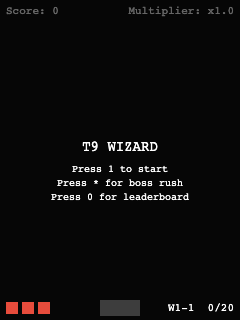
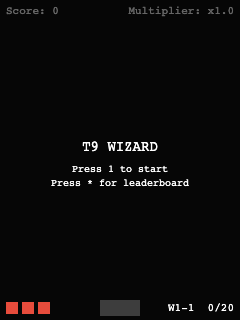
UI enhancements

Changed region(s): [[0.2042, 0.5625, 0.7875, 0.625]]

diff --git a/frontend-v3/js/main.js b/frontend-v3/js/main.js
@@ -16,14 +16,17 @@
       } else if (e.key >= '2' && e.key <= '9') {
         e.preventDefault();
         Game.handleDigitKey(e.key);
-      } else if (e.key === '0') {
-        e.preventDefault();
-        Game.handleLeaderboardKey();
       } else if (e.key === '*') {
         e.preventDefault();
-        Game.handleBossRushKey();
-      } else if (e.key === '#') {
-        e.preventDefault();
+        // Boss rush's old key -- commented out, not deleted, alongside its
+        // menu text in render.js (see renderMenuOverlay).
+        // Game.handleBossRushKey();
+        // '*' now covers both leaderboard (from the menu) and quit (from
+        // paused) -- safe to call both unconditionally since each already
+        // guards on its own required mode, and those modes are mutually
+        // exclusive, the same way '1' already means different things
+        // depending on state.
+        Game.handleLeaderboardKey();
         Game.handleQuitKey();
       }
     });

diff --git a/frontend-v3/js/render.js b/frontend-v3/js/render.js
@@ -263,8 +263,12 @@ var Render = (function () {
     ctx.fillText('T9 WIZARD', CANVAS_WIDTH / 2, CANVAS_HEIGHT / 2 - 20);
     ctx.font = '10px monospace';
     ctx.fillText('Press 1 to start', CANVAS_WIDTH / 2, CANVAS_HEIGHT / 2 + 4);
-    ctx.fillText('Press * for boss rush', CANVAS_WIDTH / 2, CANVAS_HEIGHT / 2 + 18);
-    ctx.fillText('Press 0 for leaderboard', CANVAS_WIDTH / 2, CANVAS_HEIGHT / 2 + 32);
+    // Boss rush was a boss-balance testing tool -- balance is settled now,
+    // so it's off the menu. Left commented (not deleted) since main.js's
+    // '*' case for it is disabled the same way -- trivial to bring both
+    // back if it's needed again later.
+    // ctx.fillText('Press * for boss rush', CANVAS_WIDTH / 2, CANVAS_HEIGHT / 2 + 18);
+    ctx.fillText('Press * for leaderboard', CANVAS_WIDTH / 2, CANVAS_HEIGHT / 2 + 18);
     ctx.textAlign = 'left';
   }
 
@@ -388,7 +392,7 @@ var Render = (function () {
       });
     }
     ctx.textAlign = 'center';
-    ctx.fillText('Press 1 to return to main menu', CANVAS_WIDTH / 2, CANVAS_HEIGHT - 28);
+    ctx.fillText('Press 1 to return to main menu', CANVAS_WIDTH / 2, CANVAS_HEIGHT - 36);
     ctx.textAlign = 'left';
   }
 
@@ -403,8 +407,8 @@ var Render = (function () {
     ctx.textAlign = 'center';
     ctx.fillText('PAUSED', CANVAS_WIDTH / 2, 30);
     ctx.font = '10px monospace';
-    ctx.fillText('Press 1 to resume', CANVAS_WIDTH / 2, CANVAS_HEIGHT - 44);
-    ctx.fillText('Press # to quit game', CANVAS_WIDTH / 2, CANVAS_HEIGHT - 28);
+    ctx.fillText('Press 1 to resume', CANVAS_WIDTH / 2, CANVAS_HEIGHT - 52);
+    ctx.fillText('Press * to quit game', CANVAS_WIDTH / 2, CANVAS_HEIGHT - 36);
     ctx.textAlign = 'left';
   }
 

diff --git a/backend/lambda-replay/vendored/v1/game.js b/backend/lambda-replay/vendored/v1/game.js
@@ -805,6 +805,14 @@ var Game = (function () {
   // run and hands it over.
   function handleNameSubmitted(name) {
     state.mode = STATE.SUBMITTING;
+    // Hide (and thus deactivate) the real <input> immediately, not once the
+    // request resolves -- otherwise it stays focused/active for the whole
+    // round trip, and a second Enter press in that window re-fires this
+    // same handler, sending a duplicate /submit before the first response
+    // even comes back. This runs synchronously before Api.submit() is even
+    // called, so it closes the race even against a duplicate hardware
+    // keydown event for the same physical press.
+    if (typeof NameEntry !== 'undefined') NameEntry.hide();
     if (typeof Api === 'undefined') return;
     var thisState = state;
     Api.submit({
@@ -815,7 +823,6 @@ var Game = (function () {
       canvas_height: Layout.CANVAS_HEIGHT,
       input_log: state.inputLog
     }).then(function (result) {
-      if (typeof NameEntry !== 'undefined') NameEntry.hide();
       if (state !== thisState) return;
       if (result.ok && result.body && result.body.score != null) {
         state.submitResult = { score: result.body.score };

diff --git a/frontend-v3/js/game.js b/frontend-v3/js/game.js
@@ -805,6 +805,14 @@ var Game = (function () {
   // run and hands it over.
   function handleNameSubmitted(name) {
     state.mode = STATE.SUBMITTING;
+    // Hide (and thus deactivate) the real <input> immediately, not once the
+    // request resolves -- otherwise it stays focused/active for the whole
+    // round trip, and a second Enter press in that window re-fires this
+    // same handler, sending a duplicate /submit before the first response
+    // even comes back. This runs synchronously before Api.submit() is even
+    // called, so it closes the race even against a duplicate hardware
+    // keydown event for the same physical press.
+    if (typeof NameEntry !== 'undefined') NameEntry.hide();
     if (typeof Api === 'undefined') return;
     var thisState = state;
     Api.submit({
@@ -815,7 +823,6 @@ var Game = (function () {
       canvas_height: Layout.CANVAS_HEIGHT,
       input_log: state.inputLog
     }).then(function (result) {
-      if (typeof NameEntry !== 'undefined') NameEntry.hide();
       if (state !== thisState) return;
       if (result.ok && result.body && result.body.score != null) {
         state.submitResult = { score: result.body.score };

diff --git a/backend/lambda/t9_wizard/utils.py b/backend/lambda/t9_wizard/utils.py
@@ -218,7 +218,8 @@ def create_leaderboard_entry(run_id, display_name, score, version):
     return python_data
 
 
-LEADERBOARD_LIMIT = 100
+LEADERBOARD_LIMIT = 10  # matches LEADERBOARD_ROWS in frontend-v3/js/render.js -- no point
+# fetching more than the screen ever actually shows
 
 
 def get_leaderboard(version):

diff --git a/README.md b/README.md
@@ -10,81 +10,93 @@ Colored blocks carrying a word fall from the top of the screen toward a grey pla
 - **T9 typing**: words are typed by their numeric-keypad encoding (2=ABC, 3=DEF, 4=GHI, 5=JKL, 6=MNO, 7=PQRS, 8=TUV, 9=WXYZ). E.g. "butterfly" → `288837359`.
 - **Targeting (lock-on)**: pressing a digit locks onto a candidate whose code starts with it. Powerups always win an ambiguous match over enemies (they're time-limited and worth prioritizing); within the same kind, whichever is closest to the player wins. Once locked, that target **cannot** be changed or abandoned — wrong digits are simply ignored (no penalty, no reset) until the locked code is fully typed.
 - **Lives**: start with 3, shown as red squares in the bottom-left HUD corner (uncapped — extra-life powerups can push it higher; past 5 it collapses to a `+N` suffix). An enemy or boss sentence reaching the player costs one life; 0 lives ends the run.
-- **Waves & Worlds**: defeating (or losing) all of a wave's enemies advances it. 10 waves make a World; a boss fight follows every World's 10th wave. Word length scales per-World via a shifting window (World 1 = lengths 2-6 ramping across its waves, up to World 5 = 10-12), and enemy color is a deterministic gradient by word length (LightGray → LimeGreen → Gold → DarkOrange → Crimson → DeepPink). A full-screen "WORLD N / WAVE M" (or "BOSS") announcement shows between stages. See `WORLD_LENGTH_RANGES`, `getWordLengthRangeForWave`, and `Colors.colorForWordLength` in `js/game.js`/`js/colors.js`.
+- **Waves & Worlds**: defeating (or losing) all of a wave's enemies advances it. 10 waves make a World; a boss fight follows every World's 10th wave. Word length scales per-World via a shifting window (World 1 = lengths 2-6 ramping across its waves, up to World 5 = 10-12), and enemy color is a deterministic gradient by word length (LightGray → LimeGreen → Gold → DarkOrange → Crimson → DeepPink). A full-screen "WORLD N / WAVE M" (or "BOSS") announcement shows between stages. See `WORLD_LENGTH_RANGES`, `getWordLengthRangeForWave`, and `Colors.colorForWordLength` in `frontend-v3/js/game.js`/`frontend-v3/js/colors.js`.
 - **Bosses**: a colored block whose width scales with its own health (`3 + (world-1)*2` segments, each ~14px wide) — a tougher boss visibly reads as bigger. Health is carved directly into the block itself: an intact segment is indistinguishable from the rest of the boss's color, and each depleted segment turns background-colored, so defeating it looks like biting chunks out of its body. One real sentence at a time (pulled from classic public-domain novels, see [Sentence data](#sentence-data)) falls toward the player like an enemy — complete it in time to chip a segment and get a new sentence; let it reach the player and lose a life instead (health unchanged). The sentence's text freezes in place once it nears the player so a fast/long sentence can never scroll off-screen unread — the block itself keeps falling and can still collide independently of the frozen text. Long sentences word-wrap under the boss; there's no lock-on outline in boss mode since there's only ever one target.
 - **Powerups**: killing a regular enemy has a small independent chance (tunable per type) to spawn a colored block that rises *away* from the player at the kill's location. Type its short code before it scrolls off-screen to collect it — miss it and it's lost, no penalty. At most one powerup ever spawns per kill, even if multiple types' rolls hit at once, so two blocks can never stack unreadably on top of each other. Four types: **extra life** (white), **half speed** (lightblue, halves enemy fall speed for 10s), **half length** (lightcoral, shrinks word lengths — including every enemy currently on screen — for 10s), **screen wipe** (khaki, instantly clears all on-screen enemies). Collecting one flashes its name for 2s over live gameplay; a wave won't advance until any on-screen powerups and any in-progress flash have resolved, even if the last enemy is already gone.
 - **Legible overlaps**: the currently-locked word always renders on top of everything else, and — among the rest — a block lower on screen (closer to the player, more urgent) draws over one higher up, with powerups always drawing over enemies. Every word also gets a dim, semi-transparent backing panel so it stays readable no matter what's rendered behind it.
 - **Pause**: press **1** during play to pause/resume (blocks/boss stay visible but their words are hidden, to prevent reading ahead while frozen). The game also auto-pauses if a frame gap exceeds 500ms (tab backgrounded/suspended), and proactively pauses via `visibilitychange` the instant the tab is hidden.
-- **Save & resume**: progress checkpoints to `localStorage` at natural gameplay moments (kills, powerup pickups, wave/boss transitions, pausing). Closing the tab/app and reopening it restores the run — paused, so you get a moment to get oriented rather than being dropped straight back into falling enemies. See `js/save.js`.
+- **Save & resume**: progress checkpoints to `localStorage` at natural gameplay moments (kills, powerup pickups, wave/boss transitions, pausing). Closing the tab/app and reopening it restores the run — paused, so you get a moment to get oriented rather than being dropped straight back into falling enemies. See `frontend-v3/js/save.js`.
 - **Boss rush (testing mode)**: press **\*** from the main menu to skip straight into World 1's boss and chain directly from one world's boss into the next, world by world, with no regular waves in between — a fast way to iterate on boss balance without replaying every wave. It ends in a distinct "BOSS RUSH COMPLETE" screen rather than "YOU WIN", since it's not a genuine full run.
 - **Word list**: a curated, filtered list of common conversational English words (not the full dictionary) — see [Word data](#word-data) below.
 
 ## Project structure
 
 ```
-index.html              Canvas + script tags (load order matters)
-manifest.webapp         Minimal KaiOS app manifest
-css/style.css           Canvas fills the viewport exactly (no letterboxing)
-js/
-  layout.js             Sizes the canvas to the real viewport (window.innerWidth/innerHeight)
-  t9.js                 Letter -> T9 digit map + wordToT9Code() (skips unmapped chars, e.g. spaces)
-  words.js              WordBank: picks a random word for a given length range
-  sentences.js          SentenceBank: picks a boss sentence for a given difficulty tier
-  enemy.js              Enemy data factory
-  powerup.js            Powerup data factory
-  boss.js               Boss data factory
-  colors.js             Word-length -> color gradient + per-world boss colors
-  input.js              InputEngine: the lock-on/typing state machine (core mechanic)
-  render.js             All canvas drawing (play field, entities, HUD overlay, screen overlays)
-  save.js               SaveGame: localStorage checkpoint/restore for pausing/closing mid-run
-  game.js               State machine, game loop, waves/worlds/bosses/powerups, pause, boss rush
-  main.js                Bootstrap: wires up keydown handling and starts the game
-data/
-  words-data.js          Hard-coded word-by-length data (`WORDS_BY_LENGTH`), loaded via
-                          a plain <script> tag — no fetch(), no build step, works from file://
-  sentences-data.js       Hard-coded boss sentences by difficulty tier (`SENTENCES_BY_TIER`),
-                          same loading convention as words-data.js
-icons/                  Placeholder app icons (solid color, for the KaiOS manifest)
-release.sh              Uploads all .js/.html/.webapp/.css files to S3 (see script for bucket/prefix)
+frontend-v3/
+  index.html              Canvas + script tags (load order matters)
+  manifest.webapp         Minimal KaiOS app manifest
+  css/style.css           Canvas fills the viewport exactly (no letterboxing); also styles
+                           the real <input> used for leaderboard name entry
+  js/
+    layout.js             Sizes the canvas to the real viewport (window.innerWidth/innerHeight)
+    t9.js                 Letter -> T9 digit map + wordToT9Code() (skips unmapped chars, e.g. spaces)
+    words.js              WordBank: picks a random word for a given length range
+    sentences.js          SentenceBank: picks a boss sentence for a given difficulty tier
+    enemy.js              Enemy data factory
+    powerup.js            Powerup data factory
+    boss.js               Boss data factory
+    colors.js             Word-length -> color gradient + per-world boss colors
+    input.js              InputEngine: the lock-on/typing state machine (core mechanic)
+    render.js             All canvas drawing (play field, entities, HUD overlay, screen overlays)
+    save.js               SaveGame: localStorage checkpoint/restore for pausing/closing mid-run
+    audio.js               AudioEngine: tiny Web Audio synth engine (oscillator-based, no samples)
+    sfx.js                 Declarative sound "recipes" (jingle, success/kill/powerup chirps, etc.)
+    api.js                 Thin fetch wrapper for the backend's /start, /submit, /leaderboard
+    nameentry.js            Owns the real <input> used to enter a display name before submitting
+    game.js                State machine, game loop, waves/worlds/bosses/powerups, pause, boss rush,
+                            scoring/combo/multiplier, and the start/submit/leaderboard round trip
+    main.js                Bootstrap: wires up keydown handling and starts the game
+  data/
+    words-data.js          Hard-coded word-by-length data (`WORDS_BY_LENGTH`), loaded via
+                            a plain <script> tag — no fetch(), no build step, works from file://
+    sentences-data.js       Hard-coded boss sentences by difficulty tier (`SENTENCES_BY_TIER`),
+                            same loading convention as words-data.js
+  icons/                  Placeholder app icons (solid color, for the KaiOS manifest)
+  release.sh              Uploads all .js/.html/.webapp/.css files to S3 (see script for bucket/prefix)
+backend/
+  A Python API Lambda (start/submit/leaderboard, DynamoDB-backed) plus a Node.js "replay" Lambda
+  that re-simulates a submitted run using this exact frontend game logic to verify its score
+  server-side before it counts toward the leaderboard. See backend/README.md for setup,
+  versioning (each frontend "season" talks to its own frozen ruleset), and endpoint details.
 ```
 
 ## Running it
 
-No build step, no dependencies, no server required — just open `index.html` directly in a browser (`file://` works fine, since all game data is a plain script include rather than fetched).
+No build step, no dependencies — just open `frontend-v3/index.html` directly in a browser (`file://` works fine for loading and playing; all game data is a plain script include, not fetched). The backend calls (`/start`, `/submit`, `/leaderboard`) do use `fetch()`, though, which a `file://` origin can't reach — opened this way, the game plays fully offline (a locally-generated seed instead of a server-issued one, and no leaderboard submission). Serve the directory over `http(s)://` for the full round trip.
 
 For on-device KaiOS testing, sideload the directory as a packaged app using `manifest.webapp`.
 
-Controls: digit keys **2-9** to type, **1** to start/pause/resume (and, from a game-over or win screen, to return to the main menu — pressing it again from there starts a new run), **\*** from the main menu for boss rush (see above).
+Controls: digit keys **2-9** to type, **1** to start/pause/resume (and, from a game-over or win screen with a submittable run, to enter your name and submit your score — or just to return to the main menu if it isn't submittable; pressing it again from the main menu starts a new run), **\*** from the main menu for boss rush (see above), **0** from the main menu to view the leaderboard.
 
 ## Layout & HUD
 
-`js/layout.js` sets the canvas's actual drawing resolution to match `window.innerWidth`/`window.innerHeight` exactly at load, and the CSS displays it 1:1 (`width:100vw; height:100vh`) — so the game always fills the real available viewport with no letterboxing and no scrolling, regardless of how much vertical space a given browser's chrome reserves. There's no separate reserved HUD strip: `renderHUD` (`js/render.js`) draws the lives squares and wave/boss label as a small overlay directly on the play field's bottom corners, rendered last each frame so it's always on top and visible through every other screen (pause/menu/transition/etc).
+`frontend-v3/js/layout.js` sets the canvas's actual drawing resolution to match `window.innerWidth`/`window.innerHeight` exactly at load, and the CSS displays it 1:1 (`width:100vw; height:100vh`) — so the game always fills the real available viewport with no letterboxing and no scrolling, regardless of how much vertical space a given browser's chrome reserves. There's no separate reserved HUD strip: `renderHUD` (`frontend-v3/js/render.js`) draws the lives squares and wave/boss label as a small overlay directly on the play field's bottom corners, rendered last each frame so it's always on top and visible through every other screen (pause/menu/transition/etc).
 
 ## Word data
 
-`data/words-data.js` is hand-maintained (not regenerated by a build script — the original generation pipeline and source dictionary were removed once the list was finalized). It started from a frequency-ranked common-English-words list, filtered to drop acronyms/abbreviations/brand names, patched for a few common words a dictionary cross-check had incorrectly dropped, and then hand-reviewed to strip profanity, slurs, sexual-content terms, and a few sensitive-topic words (e.g. violent/traumatic terms) that aren't a good fit for a general-audience game. Currently ~6,500 words across lengths 2-12. If you need to add or remove words, edit the arrays in `data/words-data.js` directly.
+`frontend-v3/data/words-data.js` is hand-maintained (not regenerated by a build script — the original generation pipeline and source dictionary were removed once the list was finalized). It started from a frequency-ranked common-English-words list, filtered to drop acronyms/abbreviations/brand names, patched for a few common words a dictionary cross-check had incorrectly dropped, and then hand-reviewed to strip profanity, slurs, sexual-content terms, and a few sensitive-topic words (e.g. violent/traumatic terms) that aren't a good fit for a general-audience game. Currently ~6,500 words across lengths 2-12. If you need to add or remove words, edit the arrays in `frontend-v3/data/words-data.js` directly.
 
 ## Sentence data
 
-`data/sentences-data.js` holds hand-curated boss sentences, keyed by difficulty tier 1-5 (tier N feeds World N's boss directly). Sentences are verified quotes from the current top-5 most-downloaded Project Gutenberg books (Moby Dick, Pride and Prejudice, Romeo and Juliet, A Room with a View, Crime and Punishment), lowercased and stripped of all punctuation (`[a-z ]+` only, contractions collapsed rather than split — `"it's"` → `"its"`). Pools are intentionally large (31-52 per tier) so a boss fight never feels repetitive; `js/game.js` also tracks every sentence used in the current run (`state.usedSentences`) so a line never repeats across a single playthrough. Edit the arrays directly to add more.
+`frontend-v3/data/sentences-data.js` holds hand-curated boss sentences, keyed by difficulty tier 1-5 (tier N feeds World N's boss directly). Sentences are verified quotes from the current top-5 most-downloaded Project Gutenberg books (Moby Dick, Pride and Prejudice, Romeo and Juliet, A Room with a View, Crime and Punishment), lowercased and stripped of all punctuation (`[a-z ]+` only, contractions collapsed rather than split — `"it's"` → `"its"`). Pools are intentionally large (31-52 per tier) so a boss fight never feels repetitive; `frontend-v3/js/game.js` also tracks every sentence used in the current run (`state.usedSentences`) so a line never repeats across a single playthrough. Edit the arrays directly to add more.
 
 ## Tuning knobs
 
-Game feel lives as named constants at the top of `js/game.js` — e.g. `SPAWN_INTERVAL_MS`, `ENEMY_SPEED_JITTER`, `enemyFallSpeedForLength`/`bossSentenceSpeedForWorld` (formulas), `WORLD_LENGTH_RANGES`, `BASE_BOSS_HEALTH_SEGMENTS`, `BOSS_SEGMENT_WIDTH`/`BOSS_SEGMENT_GAP`/`BOSS_SEGMENT_PADDING` (boss box width is derived from these plus its own health), `ENEMIES_PER_WAVE`, `TRANSITION_DURATION_MS`, `AUTO_PAUSE_THRESHOLD_MS`, and the `POWERUP_*` constants (probabilities, colors, display names, effect/flash durations, rise speed, code length). Only word length and enemy/boss speed scale with world/wave by design; spawn rate is intentionally flat.
+Game feel lives as named constants at the top of `frontend-v3/js/game.js` — e.g. `SPAWN_INTERVAL_MS`, `ENEMY_SPEED_JITTER`, `enemyFallSpeedForLength`/`bossSentenceSpeedForWorld` (formulas), `WORLD_LENGTH_RANGES`, `BASE_BOSS_HEALTH_SEGMENTS`, `BOSS_SEGMENT_WIDTH`/`BOSS_SEGMENT_GAP`/`BOSS_SEGMENT_PADDING` (boss box width is derived from these plus its own health), `ENEMIES_PER_WAVE`, `TRANSITION_DURATION_MS`, `AUTO_PAUSE_THRESHOLD_MS`, and the `POWERUP_*` constants (probabilities, colors, display names, effect/flash durations, rise speed, code length). Only word length and enemy/boss speed scale with world/wave by design; spawn rate is intentionally flat.
 
 ## Current status
 
-Implemented: full roguelike loop (50 waves / 5 worlds / boss per world), T9 encoding, lock-on typing engine (with kind-aware tie-break, closest-to-player fallback, and unbreakable locks), word bank, sentence bank with no-repeat tracking, boss fights with in-body health segments and word-wrapped multi-sentence typing (text freezes near the player so it can't scroll off-screen unread), all four powerups (capped at one spawn per kill), draw-order priority so the locked word and lower-on-screen blocks are never visually buried, manual + auto-pause, dynamic viewport-filling canvas with an always-visible HUD overlay, win/game-over/return-to-menu flow, localStorage save/resume across app close, and a boss-rush testing mode (`*` from the menu) for iterating on boss balance without replaying every wave.
+Implemented: full roguelike loop (50 waves / 5 worlds / boss per world), T9 encoding, lock-on typing engine (with kind-aware tie-break, closest-to-player fallback, and unbreakable locks), word bank, sentence bank with no-repeat tracking, boss fights with in-body health segments and word-wrapped multi-sentence typing (text freezes near the player so it can't scroll off-screen unread), all four powerups (capped at one spawn per kill), draw-order priority so the locked word and lower-on-screen blocks are never visually buried, manual + auto-pause, dynamic viewport-filling canvas with an always-visible HUD overlay, win/game-over/return-to-menu flow, localStorage save/resume across app close, a boss-rush testing mode (`*` from the menu) for iterating on boss balance without replaying every wave, a scoring engine (per-letter combo plus a global multiplier that grows on perfectly-typed words/sentences), oscillator-based sound effects (no sample files — start/wave/boss jingle, success/kill/powerup chirps, error buzzer, win fanfare, game-over jingle), and the full backend round trip: a server-issued seed per run (`POST /start`), replay-verified score submission by name on a genuine win *or* game over (`POST /submit` — the server re-simulates the run itself and only a win/game-over ending it actually produced counts, never what the client claims), and a per-version leaderboard screen (`GET /leaderboard`, press **0** from the menu).
 
-Not yet implemented: visual theme/sprites (enemies, powerups, boss, and player are still plain colored rectangles — icons are planned per-powerup), sound/music, gameplay event recording/stats, and everything in the TODO list below.
+Not yet implemented: visual theme/sprites (enemies, powerups, boss, and player are still plain colored rectangles — icons are planned per-powerup), and everything remaining in the TODO list below.
 
 ## TODO
 
-- [ ] Add score (separate from wave/kill count)
-- [ ] Add a global leaderboard — needs anti-cheat consideration; **research needed** on how to do this safely (e.g. server-side score validation, replay verification, rate limiting) before implementing. Boss rush runs are intentionally excluded from ever counting toward it (it's a testing/balance tool, not a real run).
-- [ ] Record full gameplay events (keypresses, kills, powerups, timestamps) to support post-run stats and an eventual leaderboard submission — designed but not yet built; revisit later.
+- [x] Add score (separate from wave/kill count)
+- [x] Add a global leaderboard — needs anti-cheat consideration; ~~**research needed** on how to do this safely~~ (e.g. server-side score validation, replay verification, rate limiting) before implementing. Boss rush runs are intentionally excluded from ever counting toward it (it's a testing/balance tool, not a real run). Built as server-side replay verification — see `backend/README.md`.
+- [x] Record full gameplay events (keypresses, kills, powerups, timestamps) to support post-run stats and an eventual leaderboard submission — designed but not yet built; revisit later. Built as a `{tick, key}` input log recorded during play and replayed server-side to verify a submission; derived stats beyond score aren't computed/stored yet (see TODO Stats below).
 - [ ] Sprite art / visual theme (enemies, powerups, boss, and player currently placeholder rectangles; powerups specifically are meant to get unique icons)
-- [ ] Sound and music
+- [x] Sound and music
 
 
 ## TODO Stats
@@ -92,9 +104,9 @@ Not yet implemented: visual theme/sprites (enemies, powerups, boss, and player a
 ## Post-Run / Leaderboard Statistics
 
 ### Core Stats
-- [ ] Score
+- [x] Score
 - [ ] Completion Time
-- [ ] Game Version / Season
+- [x] Game Version / Season
 - [ ] Accuracy (%)
 - [ ] Highest Multiplier Reached
 - [ ] Longest Letter Combo

diff --git a/backend/README.md b/backend/README.md
@@ -88,7 +88,8 @@ any endpoint-specific logic runs):
   `tick_count`, `canvas_width`, `canvas_height`, `input_log`), re-simulates it
   via the replay lambda using the *stored* seed and version (never anything
   client-supplied), and only records a leaderboard entry if the replay itself
-  reaches a win. 400s if the run's stored version doesn't match `<N>`.
+  reaches a win *or* a game over — either is a legitimate, verified terminal
+  state. 400s if the run's stored version doesn't match `<N>`.
   `run_id` is single-use — deleted from DynamoDB immediately after a
   successful submission.
 - `GET /api/v<N>/leaderboard` — returns the top 100 leaderboard entries for